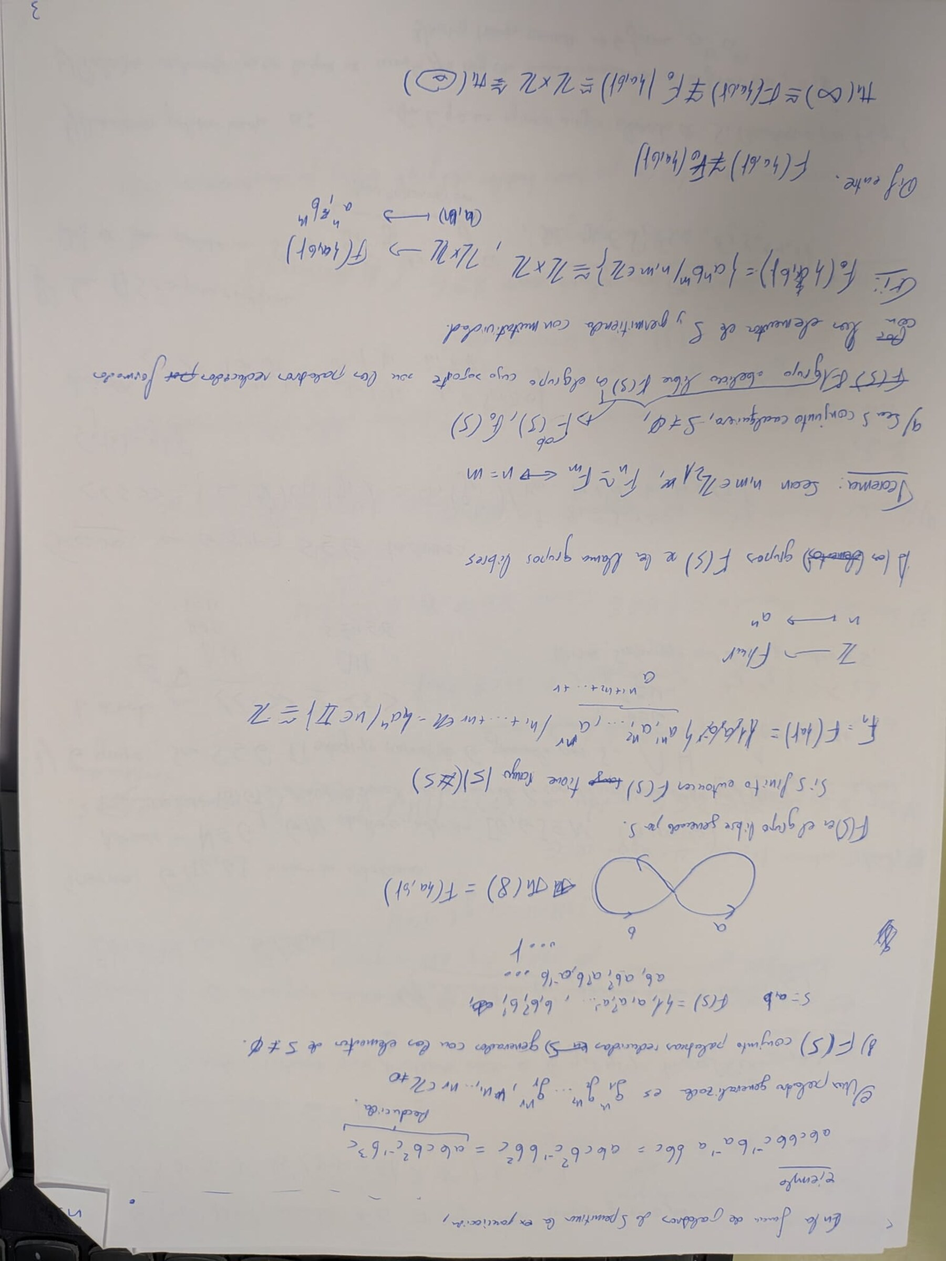
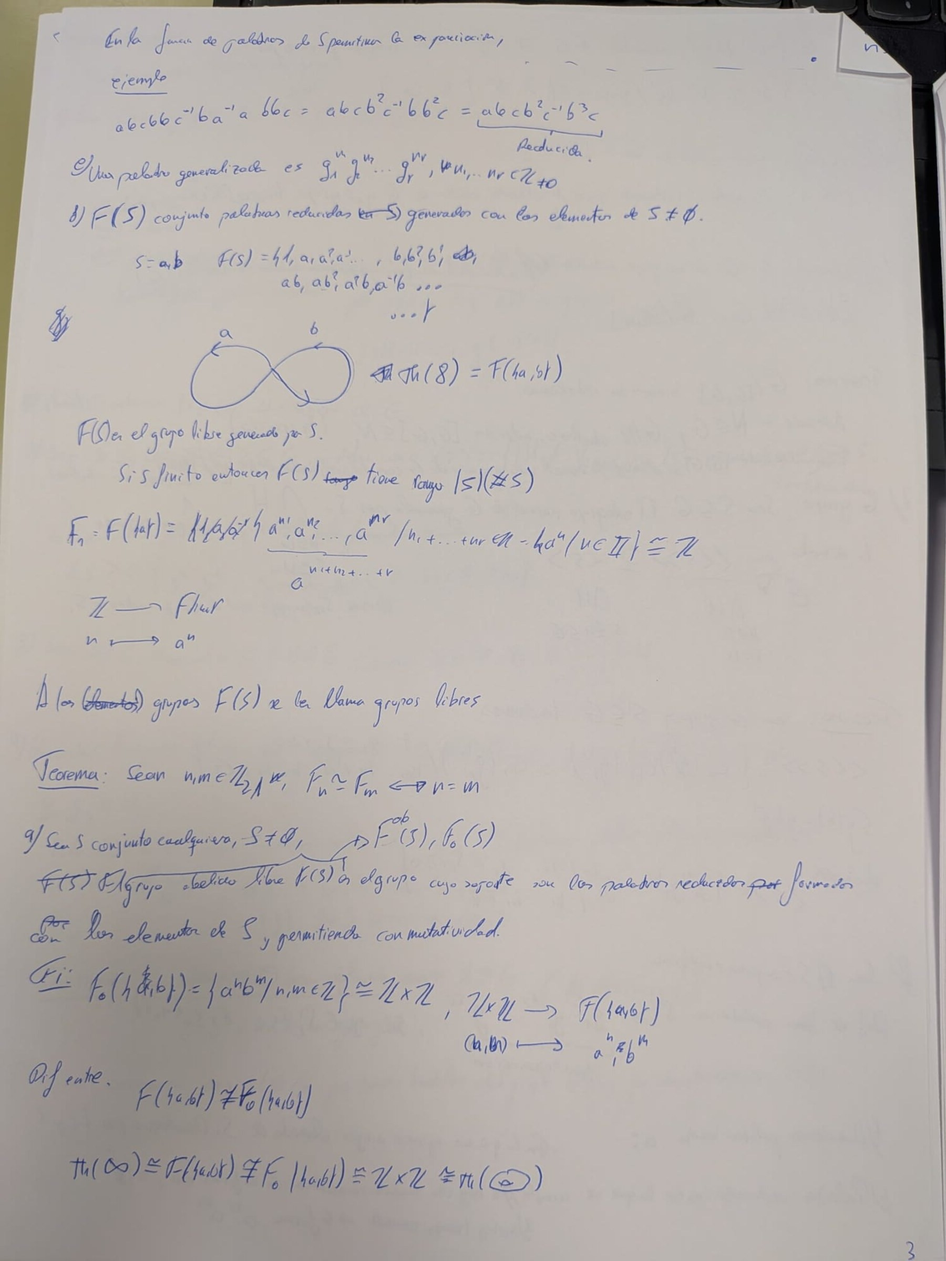
Teoría: clases 14 y 15 (Tema 6, Seifert–van Kampen)
Tema nuevo: preliminares de grupos, grupos libres, presentaciones,
producto libre, push-out y teorema de Seifert–van Kampen con ejemplos
(figura ocho, n-rosa, toro). Registrado en main.tex, exportar.sh, el
mapa y la web. Fotos 04 y 05 de la clase 14 giradas 180°.

diff --git a/web/index.html b/web/index.html
@@ -36,7 +36,7 @@
 </header>
 <main>
   <div class="tarjetas">
-    <a class="tarjeta" href="apuntes/"><h2>Apuntes en la web</h2><p>Los cinco temas, el resumen y los ejercicios resueltos, para leer en el navegador o el móvil.</p></a>
+    <a class="tarjeta" href="apuntes/"><h2>Apuntes en la web</h2><p>Los seis temas, el resumen y los ejercicios resueltos, para leer en el navegador o el móvil.</p></a>
     <a class="tarjeta" href="mapa/"><h2>Mapa de resultados</h2><p>Explora los teoremas: pulsa uno para ver su enunciado, su demostración y de qué depende.</p></a>
     <a class="tarjeta" href="https://github.com/jmnu4245/Topologia-Algebraica/releases/latest"><h2>PDF</h2><p>La última versión compilada de los apuntes completos.</p></a>
   </div>
@@ -47,6 +47,7 @@
     <li><a style="--c:#4a5bc4" href="apuntes/#tema3">3 · El grupo fundamental</a></li>
     <li><a style="--c:#9c3f8c" href="apuntes/#tema4">4 · Simplemente conexos, elevaciones y π₁(S¹)</a></li>
     <li><a style="--c:#b3182b" href="apuntes/#tema5">5 · Aplicaciones: Brouwer, TFA, Borsuk</a></li>
+    <li><a style="--c:#2a7fb8" href="apuntes/#tema6">6 · El teorema de Seifert–van Kampen</a></li>
     <li><a style="--c:#6b6b78" href="apuntes/#resumen">Resumen: homotopías, lazos y grado</a></li>
     <li><a style="--c:#1e6b66" href="apuntes/#ejercicios">Ejercicios de los boletines</a></li>
     <li><a style="--c:#2448a8" href="apuntes/#examenes">Exámenes de 2025-26</a></li>

diff --git a/teoria/TeoremaSeifertVanKampen.tex b/teoria/TeoremaSeifertVanKampen.tex
@@ -1,0 +1,319 @@
+\textbf{04/11/2026 (Clase 14)}
+\section{El teorema de Seifert--van Kampen}
+\indicetema{t6}
+
+\subsection{Introducción}
+
+Recordemos tres hechos de los temas anteriores.
+\begin{enumerate}
+    \item[a)] $\pi_1(X)$ es un \textbf{invariante homotópico} de $X$: si $X$ e $Y$ son arco-conexos y $X \simeq Y$, entonces $\pi_1(X) \cong \pi_1(Y)$ (\cref{prop:equiv_homotopica}). Cuando hablamos de $\pi_1(X)$ con $X$ arco-conexo se entiende que elegimos un $x_0 \in X$ cualquiera y que $\pi_1(X) = \pi_1(X,x_0) = C_{x_0}(X)/\!\simeq_{\{0,1\}}$; por el cambio de base (\cref{thm:teo_cambio_base}) no importa qué punto se elija.
+    \item[b)] $X$ es simplemente conexo si y solo si $X \neq \emptyset$, $X$ es arco-conexo y $\pi_1(X) = 1$ (\cref{def:def_simp_conexo}).
+    \item[c)] El caso particular de dos abiertos de la condición suficiente para que un espacio sea simplemente conexo (\cref{thm:cond_simp_conexo}):
+\end{enumerate}
+
+\begin{proposicion}{Condición suficiente con dos abiertos [C14.1]}{svk_dos_abiertos}
+Sea $X$ un espacio topológico y sea $\{U, V\}$ un recubrimiento abierto de $X$ tal que:
+\begin{enumerate}
+    \item[1)] $U$ y $V$ son simplemente conexos;
+    \item[2)] $U \cap V$ es arco-conexo;
+    \item[3)] $U \cap V \neq \emptyset$.
+\end{enumerate}
+Entonces $X$ es simplemente conexo.
+\end{proposicion}
+
+\begin{proof}
+Es el \cref{thm:cond_simp_conexo} con el recubrimiento $\{V_1, V_2\} = \{U, V\}$.
+\end{proof}
+
+Este resultado forma parte de una pregunta fundamental: \emph{si lo sabemos todo de unas partes de $X$, ¿qué se puede saber de $X$?} El teorema de Seifert--van Kampen va en esta dirección: calcula $\pi_1(X)$ a partir de los grupos fundamentales de $U$, $V$ y $U \cap V$.
+
+% REVISAR: en el manuscrito pone "Recordemos (6a)"; no está claro a qué ejercicio se refiere.
+\begin{observacion}{Recordatorio: lazos homotópicos en $S^1$ [C14.2]}{svk_recordatorio_grado}
+Sean $\alpha_1, \alpha_2 \colon I \to S^1$,
+\[ \alpha_1(t) = e^{2\pi i (t^2 + t)}, \qquad \alpha_2(t) = e^{2\pi i (a t^2 + b t + c)}, \]
+con $a + b,\ c \in \mathbb{Z}$, para que $\alpha_2$ sea un lazo en $1$, como $\alpha_1$. Entonces
+\[ \alpha_1 \simeq_{\{0,1\}} \alpha_2 \iff \deg(\alpha_1) = \deg(\alpha_2) \iff a + b = 2. \]
+En efecto, $\tilde\alpha_1(t) = t^2 + t$ es una elevación de $\alpha_1$, luego $\deg(\alpha_1) = \tilde\alpha_1(1) - \tilde\alpha_1(0) = 2$; y $\tilde\alpha_2(t) = a t^2 + b t + c$ es una elevación de $\alpha_2$, luego $\deg(\alpha_2) = \tilde\alpha_2(1) - \tilde\alpha_2(0) = a + b$ (\cref{def:def_grado_x0}). La primera equivalencia es el \cref{thm:teo_pi1_s1}.
+
+Si $a + b = 2$, como $c \in \mathbb{Z}$, también $t \mapsto at^2 + bt$ es una elevación de $\alpha_2$, con los mismos extremos ($0$ y $2$) que $\tilde\alpha_1$. Entonces
+\[ F \colon I \times I \to S^1, \qquad F(t,\theta) = p\big((1-\theta)(t^2+t) + \theta(at^2+bt)\big), \]
+con $p(s) = e^{2\pi i s}$, es una homotopía relativa a $\{0,1\}$ entre $\alpha_1$ y $\alpha_2$. La combinación lineal se hace en $\mathbb{R}$, entre las elevaciones: $(1-\theta)\alpha_1(t) + \theta\alpha_2(t)$ no toma valores en $S^1$ en general.
+\end{observacion}
+% REVISAR: en el manuscrito aparece F(t,θ) = (1-θ)α_1(t) + θα_2(t), que no cae en S^1; la homotopía con las elevaciones está completada.
+
+\subsection{Preliminares de teoría de grupos}
+
+En todo este apartado $G$ es un grupo. Escribimos $1$ tanto para el elemento neutro de $G$ como para el grupo trivial (en notación aditiva, $0$).
+
+\begin{definicion}{Subgrupo [C14.3]}{svk_subgrupo}
+Sea $\emptyset \neq H \subseteq G$. Diremos que $H$ es un \textbf{subgrupo} de $G$, y escribiremos $H \leq G$, cuando
+\[ 1 \in H, \qquad gh \in H \ \ \forall g, h \in H, \qquad g^{-1} \in H \ \ \forall g \in H. \]
+Equivalentemente, $gh^{-1} \in H$ para todo $g, h \in H$.
+\end{definicion}
+
+\begin{proof}[Demostración de la equivalencia]
+$\Rightarrow)$ Claro. $\Leftarrow)$ Como $H \neq \emptyset$, sea $g \in H$: $gg^{-1} \in H$, es decir, $1 \in H$. Entonces $1 \cdot g^{-1} = g^{-1} \in H$ para todo $g \in H$. Por último, si $g, h \in H$, entonces $h^{-1} \in H$ y $g (h^{-1})^{-1} = gh \in H$.
+\end{proof}
+
+\begin{definicion}{Subgrupo generado [C14.4]}{svk_generado}
+Sea $S \subseteq G$. El \textbf{subgrupo generado} por $S$ es
+\[ \langle S \rangle := \bigcap_{\substack{H \leq G \\ S \subseteq H}} H, \]
+el menor subgrupo de $G$ que contiene a $S$. Es sencillo probar que
+\[ \langle S \rangle = \{ g_1^{n_1} g_2^{n_2} \cdots g_r^{n_r} : g_1, \dots, g_r \in S,\ n_1, \dots, n_r \in \mathbb{Z},\ r \geq 0 \}. \]
+\end{definicion}
+
+\begin{definicion}{Subgrupo normal [C14.5]}{svk_normal}
+Sea $H \leq G$. Diremos que $H$ es \textbf{normal} en $G$, y escribiremos $H \trianglelefteq G$, cuando $ghg^{-1} \in H$ para todo $h \in H$ y todo $g \in G$. El elemento $ghg^{-1}$ es el \textbf{conjugado} de $h$ por $g$.
+\end{definicion}
+
+Sea $H \leq G$ y consideremos en $G$ la relación
+\[ g_1 \sim g_2 \iff g_1 g_2^{-1} \in H. \]
+Es una relación binaria de equivalencia, así que podemos hablar del conjunto cociente $G/\!\sim$. Intentamos dotarlo de estructura de grupo con la operación
+\[ G/\!\sim \times\, G/\!\sim \;\longrightarrow\; G/\!\sim, \qquad ([g],[h]) \longmapsto [gh]. \]
+
+\begin{teorema}{Grupo cociente [C14.6] \marcaE}{svk_cociente}
+La operación anterior está bien definida (es decir, $g \sim g'$ y $h \sim h'$ implican $gh \sim g'h'$) si y solo si $H \trianglelefteq G$.
+
+En consecuencia, si $H \trianglelefteq G$ podemos hablar del \textbf{grupo cociente} $G/\!\sim$, que denotaremos por $G/H$.
+\end{teorema}
+
+\begin{proof}
+(Se propuso como ejercicio; la demostración está completada.)
+
+$\Leftarrow)$ Si $g g'^{-1} \in H$ y $h h'^{-1} \in H$, entonces
+\[ gh\,(g'h')^{-1} = g\,(h h'^{-1})\,g^{-1} \cdot g g'^{-1} \in H, \]
+porque $g (hh'^{-1}) g^{-1} \in H$ por ser $H$ normal, y $H$ es cerrado para el producto.
+
+$\Rightarrow)$ Sean $h \in H$ y $g \in G$. Como $h \cdot 1^{-1} = h \in H$, se tiene $h \sim 1$; y $g \sim g$. Por la buena definición, $gh \sim g \cdot 1 = g$, es decir, $gh g^{-1} \in H$.
+\end{proof}
+
+\begin{definicion}{Conmutador de un grupo [C14.7]}{svk_conmutador}
+El \textbf{conmutador} de $G$ es el subgrupo generado por los conmutadores de sus elementos:
+\[ [G,G] := \big\langle \{ g_1 g_2 g_1^{-1} g_2^{-1} : g_1, g_2 \in G \} \big\rangle. \]
+\end{definicion}
+
+\begin{observacion}{[C14.8]}{svk_abeliano_conmutador}
+$G$ es abeliano si y solo si $[G,G] = 1$, porque $g_1 g_2 g_1^{-1} g_2^{-1} = 1 \iff g_1 g_2 = g_2 g_1$.
+\end{observacion}
+
+\begin{teorema}{Abelianizado [C14.9] \marcaE}{svk_abelianizado}
+Sea $G$ un grupo. Entonces:
+\begin{enumerate}
+    \item[a)] $[G,G] \trianglelefteq G$, así que podemos hablar del grupo $G/[G,G]$.
+    \item[b)] $G/[G,G]$ siempre es abeliano.
+    \item[c)] Si $N \trianglelefteq G$ y $G/N$ es abeliano, entonces $[G,G] \subseteq N$.
+\end{enumerate}
+Equivalentemente, $[G,G]$ es el menor subgrupo normal de $G$ cuyo cociente es abeliano (véase Rotman).
+\end{teorema}
+
+\begin{proof}
+(En clase se enunciaron a) y b) sin demostración y c) se propuso como ejercicio; la demostración de c) está completada.)
+
+c) Sean $g_1, g_2 \in G$. Como $G/N$ es abeliano, $[g_1][g_2] = [g_2][g_1]$, es decir, $[g_1 g_2 g_1^{-1} g_2^{-1}] = [1]$, luego $g_1 g_2 g_1^{-1} g_2^{-1} \in N$. Así $N$ es un subgrupo que contiene a todos los conmutadores, y por tanto contiene al subgrupo que generan: $[G,G] \subseteq N$.
+\end{proof}
+
+\begin{definicion}{Subgrupo normal generado [C14.10]}{svk_normal_generado}
+Sea $S \subseteq G$. El \textbf{subgrupo normal de $G$ generado por $S$} es
+\[ \langle\langle S \rangle\rangle := \bigcap_{\substack{H \trianglelefteq G \\ S \subseteq H}} H \;\supseteq\; \langle S \rangle = \bigcap_{\substack{H \leq G \\ S \subseteq H}} H, \]
+el menor subgrupo normal de $G$ que contiene a $S$.
+\end{definicion}
+
+\begin{teorema}{Descripción de $\langle\langle S \rangle\rangle$ [C14.11]}{svk_normal_generado_desc}
+Sea $S \subseteq G$ y, para $h \in G$, sea $c_h \colon G \to G$ la conjugación $c_h(g) = h g h^{-1}$. Entonces
+\[ \langle\langle S \rangle\rangle = \big\{ c_{h_1}(g_1^{n_1})\, c_{h_2}(g_2^{n_2}) \cdots c_{h_r}(g_r^{n_r}) \big\}, \]
+con $g_1, \dots, g_r \in S$, $n_1, \dots, n_r \in \mathbb{Z}$, $h_1, \dots, h_r \in G$ y $r \geq 0$.
+Compárese con $\langle S \rangle = \{ g_1^{n_1} \cdots g_r^{n_r} : g_i \in S,\ n_i \in \mathbb{Z},\ r \geq 0 \}$ (\cref{def:svk_generado}).
+\end{teorema}
+
+\subsection{Grupos libres}
+
+\begin{definicion}{Palabras [C14.12]}{svk_palabras}
+Sea $S$ un conjunto cualquiera.
+\begin{enumerate}
+    \item[a)] Una \textbf{palabra} en $S$ es una yuxtaposición $g_1^{\varepsilon_1} g_2^{\varepsilon_2} \cdots g_r^{\varepsilon_r}$ con $g_1, \dots, g_r \in S$ y $\varepsilon_1, \dots, \varepsilon_r \in \{-1, 1\}$.
+    \item[b)] La \textbf{palabra vacía} es aquella en la que no aparece ningún elemento de $S$. La denotaremos por $1$.
+    \item[c)] Una palabra es \textbf{reducida} cuando no tiene dos símbolos consecutivos de la forma $a a^{-1}$ ni $a^{-1} a$, con $a \in S$.
+    \item[d)] Una \textbf{palabra generalizada} es $g_1^{n_1} g_2^{n_2} \cdots g_r^{n_r}$ con $n_1, \dots, n_r \in \mathbb{Z} \setminus \{0\}$. En la forma reducida de las palabras generalizadas no hay términos consecutivos de la forma $a^{\varepsilon_1} a^{\varepsilon_2}$: se agrupan en una potencia.
+\end{enumerate}
+Por ejemplo,
+\[ abcbbc^{-1}ba^{-1}abbc = abcb^2c^{-1}bbb\,c = \underbrace{abcb^2c^{-1}b^3c}_{\text{reducida}}. \]
+\end{definicion}
+% REVISAR: en el manuscrito c) tiene dos condiciones numeradas 1) y 2); la segunda (agrupar a^e1 a^e2) se ha pasado a d), que es donde se usan los exponentes.
+
+\begin{definicion}{Grupo libre [C14.13]}{svk_grupo_libre}
+Sea $S \neq \emptyset$. $F(S)$ es el conjunto de las palabras reducidas formadas con los elementos de $S$, con la operación de yuxtaponer y reducir. Es el \textbf{grupo libre generado por $S$}. Si $S$ es finito, se dice que $F(S)$ tiene \textbf{rango} $|S| = \#S$; escribimos $F_n$ para el grupo libre de rango $n$. A los grupos $F(S)$ se les llama \textbf{grupos libres}.
+\end{definicion}
+
+\begin{observacion}{Ejemplos de grupos libres [C14.14]}{svk_ej_libres}
+\begin{itemize}
+    \item Si $S = \{a, b\}$, entonces $F(S) = \{1, a, a^2, a^{-1}, \dots, b, b^2, b^{-1}, \dots, ab, ab^2, a^2b, a^{-1}b, \dots\}$. Veremos que el grupo fundamental de la figura ocho $S^1 \vee S^1$ (\cref{def:def_wedge}), con un lazo $a$ y un lazo $b$ que recorren cada circunferencia, es $\pi_1(S^1 \vee S^1) = F(\{a,b\})$ (\cref{obs:svk_ej_ocho_toro}).
+    \item $F_1 = F(\{a\}) = \{1, a, a^{-1}, a^{n_1} a^{n_2} \cdots a^{n_r} = a^{n_1 + \dots + n_r}\} = \{a^n : n \in \mathbb{Z}\} \cong \mathbb{Z}$, mediante el isomorfismo $\mathbb{Z} \to F(\{a\})$, $n \mapsto a^n$.
+\end{itemize}
+\end{observacion}
+
+\begin{definicion}{Grupo abeliano libre [C14.15]}{svk_abeliano_libre}
+Sea $S \neq \emptyset$. El \textbf{grupo abeliano libre} $F_0(S)$ (también $F^{ab}(S)$) es el grupo cuyo soporte son las palabras reducidas formadas con los elementos de $S$, permitiendo la conmutatividad. Por ejemplo,
+\[ F_0(\{a, b\}) = \{a^n b^m : n, m \in \mathbb{Z}\} \cong \mathbb{Z} \times \mathbb{Z}, \]
+mediante $\mathbb{Z} \times \mathbb{Z} \to F_0(\{a,b\})$, $(n,m) \mapsto a^n b^m$.
+En general, si $\#S = n$, entonces $F_0(S) \cong \mathbb{Z}^n$.
+\end{definicion}
+
+\begin{observacion}{Diferencia entre $F$ y $F_0$ [C14.16]}{svk_F_F0}
+$F(\{a,b\}) \not\cong F_0(\{a,b\})$: el segundo es abeliano y el primero no ($ab$ y $ba$ son palabras reducidas distintas). Topológicamente,
+\[ \pi_1(S^1 \vee S^1) \cong F(\{a,b\}) \not\cong F_0(\{a,b\}) \cong \mathbb{Z} \times \mathbb{Z} \cong \pi_1(T^2), \]
+donde la última igualdad es la \cref{prop:ej_pi1_producto}. En particular, la figura ocho y el toro no tienen el mismo tipo de homotopía.
+\end{observacion}
+
+\begin{proposicion}{Lema: abelianizado de un grupo libre [C14.17]}{svk_lema_F0}
+Sea $S \neq \emptyset$. Entonces $F_0(S) \cong F(S)/[F(S), F(S)]$.
+\end{proposicion}
+
+\begin{teorema}{Rango de un grupo libre [C14.18]}{svk_rango}
+Sean $n, m \in \mathbb{Z}_{\geq 1}$. Entonces $F_n \cong F_m \iff n = m$.
+\end{teorema}
+
+\begin{proof}
+$\Leftarrow)$ Claro. $\Rightarrow)$ Un isomorfismo $F_n \cong F_m$ lleva conmutadores en conmutadores, luego lleva $[F_n,F_n]$ en $[F_m,F_m]$ e induce un isomorfismo entre los abelianizados. Por el \cref{prop:svk_lema_F0},
+\[ \mathbb{Z}^n \cong F_0(S_n) \cong \frac{F_n}{[F_n,F_n]} \cong \frac{F_m}{[F_m,F_m]} \cong F_0(S_m) \cong \mathbb{Z}^m. \]
+Un isomorfismo $\mathbb{Z}^n \cong \mathbb{Z}^m$ lleva $2\mathbb{Z}^n$ en $2\mathbb{Z}^m$, así que
+\[ \Big(\frac{\mathbb{Z}}{2\mathbb{Z}}\Big)^n \cong \frac{\mathbb{Z}^n}{2\mathbb{Z}^n} \cong \frac{\mathbb{Z}^m}{2\mathbb{Z}^m} \cong \Big(\frac{\mathbb{Z}}{2\mathbb{Z}}\Big)^m. \]
+Ambos son espacios vectoriales sobre el cuerpo $\mathbb{Z}/2\mathbb{Z}$, de dimensiones $n$ y $m$, y son isomorfos, luego $n = m$.
+\end{proof}
+
+\begin{teorema}{Todo grupo es imagen epimorfa de un grupo libre [C14.19]}{svk_epimorfismo}
+Sea $G$ un grupo. Entonces existen un grupo libre $F$ y un epimorfismo $\varphi \colon F \to G$. Además, $F$ puede tomarse como $F(S)$ para cualquier sistema generador $S$ de $G$.
+\end{teorema}
+
+\begin{proof}
+Sea $S$ cualquier sistema generador de $G$, es decir, $\langle S \rangle = G$, y por la \cref{def:svk_generado}
+\[ G = \langle S \rangle = \{ g_1^{n_1} \cdots g_r^{n_r} : g_1, \dots, g_r \in S,\ n_1, \dots, n_r \in \mathbb{Z},\ r \geq 0 \}. \]
+Sea $F = F(S)$ y definimos
+\[ \varphi \colon F \to G, \qquad \underbrace{g_1^{n_1} g_2^{n_2} \cdots g_r^{n_r}}_{\text{yuxtaposición}} \longmapsto \underbrace{g_1^{n_1} g_2^{n_2} \cdots g_r^{n_r}}_{\text{producto en } G}. \]
+Es un homomorfismo (yuxtaponer y reducir en $F$ corresponde a multiplicar en $G$) y es sobreyectivo porque todo elemento de $G$ es un producto de ese tipo. Luego $\varphi$ es un epimorfismo.
+\end{proof}
+
+\begin{observacion}{El núcleo es normal [C14.20]}{svk_nucleo_normal}
+Si $\varphi \colon G_1 \to G_2$ es un homomorfismo de grupos, entonces $K = \ker(\varphi) \trianglelefteq G_1$. En efecto, para $h \in K$ y $g \in G_1$,
+\[ \varphi(ghg^{-1}) = \varphi(g)\varphi(h)\varphi(g^{-1}) = \varphi(g)\varphi(g^{-1}) = \varphi(1) = 1, \]
+luego $ghg^{-1} \in K$. Como consecuencia del \cref{thm:svk_epimorfismo} y del primer teorema de isomorfía,
+\[ F/\ker(\varphi) \cong G. \]
+\end{observacion}
+
+\bigskip
+\textbf{06/11/2026 (Clase 15)}
+
+\subsection{Presentaciones y producto libre}
+
+Como consecuencia de la \cref{obs:svk_nucleo_normal}: si disponemos de un sistema generador $S$ de $G$ y de un conjunto $R$ que genera $\ker(\varphi)$ (como subgrupo normal, $\langle\langle R \rangle\rangle = \ker(\varphi)$), automáticamente $G$ está unívocamente determinado:
+\[ G \cong F(S) / \langle\langle R \rangle\rangle. \]
+
+\begin{definicion}{Presentación de un grupo [C15.1]}{svk_presentacion}
+Con la notación anterior se escribe $G = \langle S ; R \rangle$, y se dice que $G$ está \textbf{presentado por generadores y relaciones}. Recordemos que $\varphi \colon F(S) \to G$ manda la yuxtaposición $g_1^{r_1} \cdots g_m^{r_m}$ ($g_i \in S$, $r_i \in \mathbb{Z}$) al producto $g_1^{r_1} \cdots g_m^{r_m}$ en $G$.
+\end{definicion}
+
+\begin{observacion}{Ejemplos de presentaciones [C15.2]}{svk_ej_presentaciones}
+\begin{enumerate}
+    \item[1)] $F_1 = \mathbb{Z} = \langle a ; \ \rangle$ (sin relaciones).
+    \item[2)] $\mathbb{Z}^2 = \mathbb{Z} \times \mathbb{Z} = \langle a, b ; aba^{-1}b^{-1} \rangle$.
+    \item[3)] $\mathbb{Z}/5\mathbb{Z} = \langle a ; a^5 \rangle$.
+\end{enumerate}
+\end{observacion}
+
+\begin{definicion}{Producto libre de grupos [C15.3]}{svk_producto_libre}
+Sean $G_1 = \langle S_1 ; R_1 \rangle$ y $G_2 = \langle S_2 ; R_2 \rangle$. Su \textbf{producto libre} es
+\[ G_1 * G_2 := \langle S_1 \cup S_2 ; R_1 \cup R_2 \rangle. \]
+Si $S_1 = \{g_1, g_2, \dots\}$ y $S_2 = \{h_1, h_2, \dots\}$, los elementos de $G_1 * G_2$ son palabras como $g_1^5 g_4^{-1} h_1 g_2 h_2 h_3^7 g_5 h_7$: los símbolos consecutivos de $G_1$ se operan en $G_1$, los de $G_2$ en $G_2$, y entre unos y otros se concatena.
+\end{definicion}
+% REVISAR: se entiende S_1 y S_2 disjuntos (unión disjunta) aunque en el papel pone S_1 ∪ S_2.
+
+\begin{observacion}{Ejemplos de productos libres [C15.4]}{svk_ej_producto_libre}
+\begin{itemize}
+    \item $\mathbb{Z} * \mathbb{Z} = \langle a ; \ \rangle * \langle b ; \ \rangle = \langle a, b ; \ \rangle = F(\{a,b\}) = F_2$.
+    \item $\mathbb{Z} * \mathbb{Z} * \mathbb{Z} = \langle a, b, c ; \ \rangle = F_3$.
+    \item En cambio, $\mathbb{Z} \times \mathbb{Z} = \langle a, b ; aba^{-1}b^{-1} \rangle$, mientras que $\mathbb{Z} * \mathbb{Z} = \langle a, b ; \ \rangle$.
+\end{itemize}
+\end{observacion}
+
+\subsection{Push-out de grupos y el teorema de Seifert--van Kampen}
+
+\begin{teorema}{Push-out de grupos [C15.5]}{svk_pushout}
+Consideremos un diagrama de homomorfismos de grupos $\varphi_1 \colon H \to G_1$, $\varphi_2 \colon H \to G_2$. Entonces existe una \textbf{completación} de este diagrama, un grupo $\mathcal{G}$ con homomorfismos $\psi_1 \colon G_1 \to \mathcal{G}$ y $\psi_2 \colon G_2 \to \mathcal{G}$ tales que $\psi_1 \circ \varphi_1 = \psi_2 \circ \varphi_2$, de forma que: para todo grupo $G$ y todos los homomorfismos $s_1 \colon G_1 \to G$, $s_2 \colon G_2 \to G$ con $s_1 \circ \varphi_1 = s_2 \circ \varphi_2$, existe un único homomorfismo $f \colon \mathcal{G} \to G$ con
+\[ s_1 = f \circ \psi_1 \qquad \text{y} \qquad s_2 = f \circ \psi_2. \]
+\begin{center}
+\begin{tikzpicture}
+\node (H) at (0,2) {$H$};
+\node (G1) at (2.5,2) {$G_1$};
+\node (G2) at (0,0) {$G_2$};
+\node (P) at (2.5,0) {$\mathcal{G}$};
+\node (G) at (4.5,-1.5) {$G$};
+\draw[->] (H) -- (G1) node[midway, above] {$\varphi_1$};
+\draw[->] (H) -- (G2) node[midway, left] {$\varphi_2$};
+\draw[->, dashed] (G1) -- (P) node[midway, right] {$\psi_1$};
+\draw[->, dashed] (G2) -- (P) node[midway, above] {$\psi_2$};
+\draw[->] (G1) to[bend left=30] node[midway, right] {$s_1$} (G);
+\draw[->] (G2) to[bend right=30] node[midway, below] {$s_2$} (G);
+\draw[->, dotted] (P) -- (G) node[midway, above right] {$\exists!\, f$};
+\end{tikzpicture}
+\end{center}
+En la prueba de este resultado se ve que $\mathcal{G}$ es único salvo isomorfismo: es el \textbf{push-out} de $\varphi_1$ y $\varphi_2$. Además, si $G_1 = \langle S_1 ; R_1 \rangle$, $G_2 = \langle S_2 ; R_2 \rangle$ y $H = \langle S ; R \rangle$, entonces
+\[ \mathcal{G} \cong \frac{G_1 * G_2}{N} \cong \langle S_1 \cup S_2 ; R_1 \cup R_2 \cup R_0 \rangle, \]
+con $R_0 = \{ \varphi_1(h)\varphi_2(h)^{-1} : h \in S \}$, donde $N$ es el subgrupo normal de $G_1 * G_2$ generado por $R_0$.
+\end{teorema}
+% REVISAR: en el manuscrito los nombres psi_1 y psi_2 están cruzados (psi_2: G_1 -> G, psi_1: G_2 -> G); aquí psi_k sale de G_k.
+
+\begin{teorema}{de Seifert--van Kampen [C15.6]}{svk_teorema}
+Sea $X$ un espacio topológico, sea $x_0 \in X$ y sea $\{U, V\}$ un recubrimiento abierto de $X$. Supongamos que $X$, $U$, $V$ y $U \cap V$ son arco-conexos y que $x_0 \in U \cap V$. Sean $i_1 \colon U \cap V \to U$, $i_2 \colon U \cap V \to V$, $j_1 \colon U \to X$ y $j_2 \colon V \to X$ las inclusiones, que forman un diagrama conmutativo ($j_1 \circ i_1 = j_2 \circ i_2$). Entonces el diagrama inducido
+\begin{center}
+\begin{tikzpicture}
+\node (A) at (0,2) {$\pi_1(U \cap V, x_0)$};
+\node (B) at (4.5,2) {$\pi_1(U, x_0)$};
+\node (C) at (0,0) {$\pi_1(V, x_0)$};
+\node (D) at (4.5,0) {$\pi_1(X, x_0)$};
+\draw[->] (A) -- (B) node[midway, above] {$(i_1)_{*,x_0}$};
+\draw[->] (A) -- (C) node[midway, left] {$(i_2)_{*,x_0}$};
+\draw[->] (B) -- (D) node[midway, right] {$(j_1)_{*,x_0}$};
+\draw[->] (C) -- (D) node[midway, below] {$(j_2)_{*,x_0}$};
+\end{tikzpicture}
+\end{center}
+también conmuta y es un diagrama push-out. Por el \cref{thm:svk_pushout}, si $\pi_1(U,x_0) = \langle S_1 ; R_1 \rangle$, $\pi_1(V,x_0) = \langle S_2 ; R_2 \rangle$ y $\pi_1(U \cap V, x_0) = \langle S ; R \rangle$, entonces
+\[ \pi_1(X, x_0) \cong \langle S_1 \cup S_2 ; R_1 \cup R_2 \cup R_0 \rangle, \]
+con $R_0 = \{ (i_1)_*(h)\,\big((i_2)_*(h)\big)^{-1} : h \in S \}$.
+\end{teorema}
+% REVISAR: en el manuscrito pone "U ∩ X arcoconexos" (se entiende U ∩ V) y "x_0 ∈ U ∪ V" (se entiende U ∩ V, que es donde está el punto base de pi_1(U ∩ V, x_0)).
+% La conmutatividad del diagrama inducido sale de la funtorialidad de los homomorfismos inducidos (\cref{thm:teo_hom_ind}).
+
+\begin{observacion}{La figura ocho y la rosa de $n$ pétalos [C15.7]}{svk_ej_ocho_toro}
+Sea $X = S^1 \vee S^1$ la figura ocho y $x_0$ el punto de unión. Tomamos $U$ = $X$ menos un punto de la circunferencia de la derecha y $V$ = $X$ menos un punto de la de la izquierda. Entonces $U \simeq S^1$, $V \simeq S^1$ y $U \cap V$ es una cruz, contráctil, así que
+\[ \pi_1(U \cap V, x_0) = 1, \quad \pi_1(U, x_0) = \mathbb{Z} = \langle b ; \ \rangle, \quad \pi_1(V, x_0) = \mathbb{Z} = \langle a ; \ \rangle, \]
+y por el \cref{thm:svk_teorema}, $\pi_1(X, x_0) = \langle a, b ; \ \rangle \cong F_2$.
+
+La \textbf{$n$-rosa} es el ramo de $n$ circunferencias $\bigvee_n S^1$ (\cref{def:def_wedge}), también llamado \emph{bouquet} de esferas. Aplicando inducción se llega a que $\pi_1\big(\bigvee_n S^1\big) \cong F_n$.
+\end{observacion}
+
+\begin{observacion}{Un toro con el agujero central reducido a un punto [C15.8]}{svk_ej_toro_cornudo}
+% REVISAR: el espacio X solo está dibujado. Parece el toro que se obtiene girando alrededor del eje z una circunferencia tangente al eje (el agujero central se reduce a un punto, donde está dibujado x_0 en el primer dibujo).
+Sea $X$ el toro que se obtiene al girar alrededor del eje $z$ una circunferencia tangente a dicho eje, sea $p \in X$ un punto (distinto del punto del eje) y sea $x_0 \neq p$ con $x_0 \in U \setminus \{p\}$, de modo que $x_0 \in U \cap V$, donde
+\[ U = B(p, \varepsilon) \cap X \ \ (\varepsilon > 0 \text{ suficientemente pequeño}), \qquad V = X \setminus \{p\}. \]
+Entonces $U$ es un disco ($\pi_1(U,x_0) = 1$), $U \cap V$ es un disco sin un punto ($\pi_1(U \cap V, x_0) \cong \mathbb{Z} = \langle a ; \ \rangle$) y $\pi_1(V, x_0) = \langle b ; \ \rangle \cong \mathbb{Z}$. El lazo $a$ alrededor de $p$ es trivial en $V$: $(i_2)_{*}(a) = bb^{-1} = 1$. Por el \cref{thm:svk_teorema}, con $R_0 = \{ (i_1)_*(a)\,((i_2)_*(a))^{-1} \}$,
+\[ \pi_1(X, x_0) \cong \big\langle b ; \underbrace{(i_1)_*(a)}_{1} \underbrace{\big((i_2)_*(a)\big)^{-1}}_{(bb^{-1})^{-1} = 1} \big\rangle = \langle b ; \ \rangle \cong \mathbb{Z}. \]
+\end{observacion}
+% REVISAR: a continuación hay un ejemplo 3) con un dibujo de una región con un agujero sombreado y "≅ Z"; no se ha podido identificar el espacio.
+
+\begin{observacion}{El grupo fundamental del toro por Seifert--van Kampen [C15.9]}{svk_ej_toro}
+Ya sabemos que $\pi_1(T^2) = \mathbb{Z} \times \mathbb{Z}$ (\cref{prop:ej_pi1_producto}). Veamos que también se puede deducir del \cref{thm:svk_teorema}. Sean $X = T^2$, $p \in X$ y
+\[ U = B(p, \varepsilon) \cap X \ \ (\varepsilon > 0 \text{ suficientemente pequeño}), \qquad V = X \setminus \{p\}, \]
+con $x_0 \in U \cap V$. Entonces:
+\begin{itemize}
+    \item $U \cap V$ es un disco sin un punto, $U \cap V \simeq S^1$, y $\pi_1(U \cap V, x_0) = \langle a ; \ \rangle$, ya que $\pi_1(S^1) = \langle 1 \rangle$ vía el grado, $\deg \colon \pi_1(S^1) \to \mathbb{Z} = \langle 1 \rangle$ (\cref{thm:teo_pi1_s1}).
+    \item $U$ es un disco, así que $\pi_1(U, x_0) = 1$.
+    \item $V = T^2 \setminus \{p\}$ se retrae sobre dos circunferencias $b$ y $c$ unidas por un punto, una figura ocho, así que $\pi_1(V, x_0) \cong F_2 = \langle b, c ; \ \rangle$.
+\end{itemize}
+El lazo $a$, que rodea a $p$, recorre en $V$ el borde del cuadrado con el que se construye el toro, así que $(i_2)_*(a) = cbc^{-1}b^{-1}$, y $(i_1)_*(a) = 1$. Por tanto
+\[ \pi_1(T^2, x_0) = \langle b, c ; cbc^{-1}b^{-1} \rangle \cong \mathbb{Z} \times \mathbb{Z}. \]
+\end{observacion}
+% REVISAR: el valor (i_2)_*(a) = cbc^{-1}b^{-1} (y la explicación del borde del cuadrado) está completado; en el papel solo aparece el resultado <b, c; cbc^{-1}b^{-1}>.
+
+\begin{observacion}{Otras superficies [C15.10]}{svk_ej_superficies}
+En clase se dibujaron además: una superficie (esfera con varios agujeros) que se retrae sobre una rosa de $6$ pétalos, cuyo grupo fundamental es por tanto $F_6$, y el bitoro y el tritoro (superficies de género $2$ y $3$).
+\end{observacion}
+% REVISAR: los dibujos de la última página no llevan cálculos; el número de agujeros de la primera superficie no se distingue bien (el resultado anotado es F_6).

diff --git a/web/mapa/generar.py b/web/mapa/generar.py
@@ -19,10 +19,11 @@ ARCHIVOS = [
     ("ElGrupoFundamental", 3, "El grupo fundamental"),
     ("EspaciosSimplementeConexosyGrupoFundamental", 4, "Simplemente conexos y π₁(S¹)"),
     ("AplicacionesTeoriaHomotopia", 5, "Aplicaciones"),
+    ("TeoremaSeifertVanKampen", 6, "Seifert–van Kampen"),
 ]
 # Archivos que no son nodos del mapa pero cuyas cajas se citan desde los apuntes (para resolver \\cref).
-COLORES = {1: "#2f7d6d", 2: "#c0662c", 3: "#4a5bc4", 4: "#9c3f8c", 5: "#b3182b", 6: "#6b6b78"}
-ARCHIVOS_SOLO_REFS = [("ResumenHomotopias", 6, "Resumen")]
+COLORES = {1: "#2f7d6d", 2: "#c0662c", 3: "#4a5bc4", 4: "#9c3f8c", 5: "#b3182b", 6: "#2a7fb8", 7: "#6b6b78"}
+ARCHIVOS_SOLO_REFS = [("ResumenHomotopias", 7, "Resumen")]
 TIPOS = {  # entorno -> (nombre, prefijo de etiqueta)
     "teorema": ("Teorema", "thm"),
     "proposicion": ("Proposición", "prop"),

diff --git a/teoria/presentacion.tex b/teoria/presentacion.tex
@@ -38,6 +38,7 @@ Personas que han contribuido abriendo \emph{issues}:
             \item \texttt{ElGrupoFundamental.tex}
             \item \texttt{EspaciosSimplementeConexosyGrupoFundamental.tex}
             \item \texttt{AplicacionesTeoriaHomotopia.tex}
+            \item \texttt{TeoremaSeifertVanKampen.tex}
         \end{enumerate}
         \item \texttt{ResumenHomotopias.tex} es la hoja resumen de homotopías, lazos y grado, después del último tema.
     \end{itemize}

diff --git a/main.tex b/main.tex
@@ -28,6 +28,8 @@
 \include{teoria/EspaciosSimplementeConexosyGrupoFundamental}
 \inicioparte{t5}{Tema 5}{Aplicaciones de la teoría de homotopía}{subsection}
 \include{teoria/AplicacionesTeoriaHomotopia}
+\inicioparte{t6}{Tema 6}{El teorema de Seifert--van Kampen}{subsection}
+\include{teoria/TeoremaSeifertVanKampen}
 \include{teoria/ResumenHomotopias}
 \include{ejercicios/ejercicios}
 \inicioparte{ex}{Exámenes de 2025-26}{Preguntas y dónde está cada solución}{}
